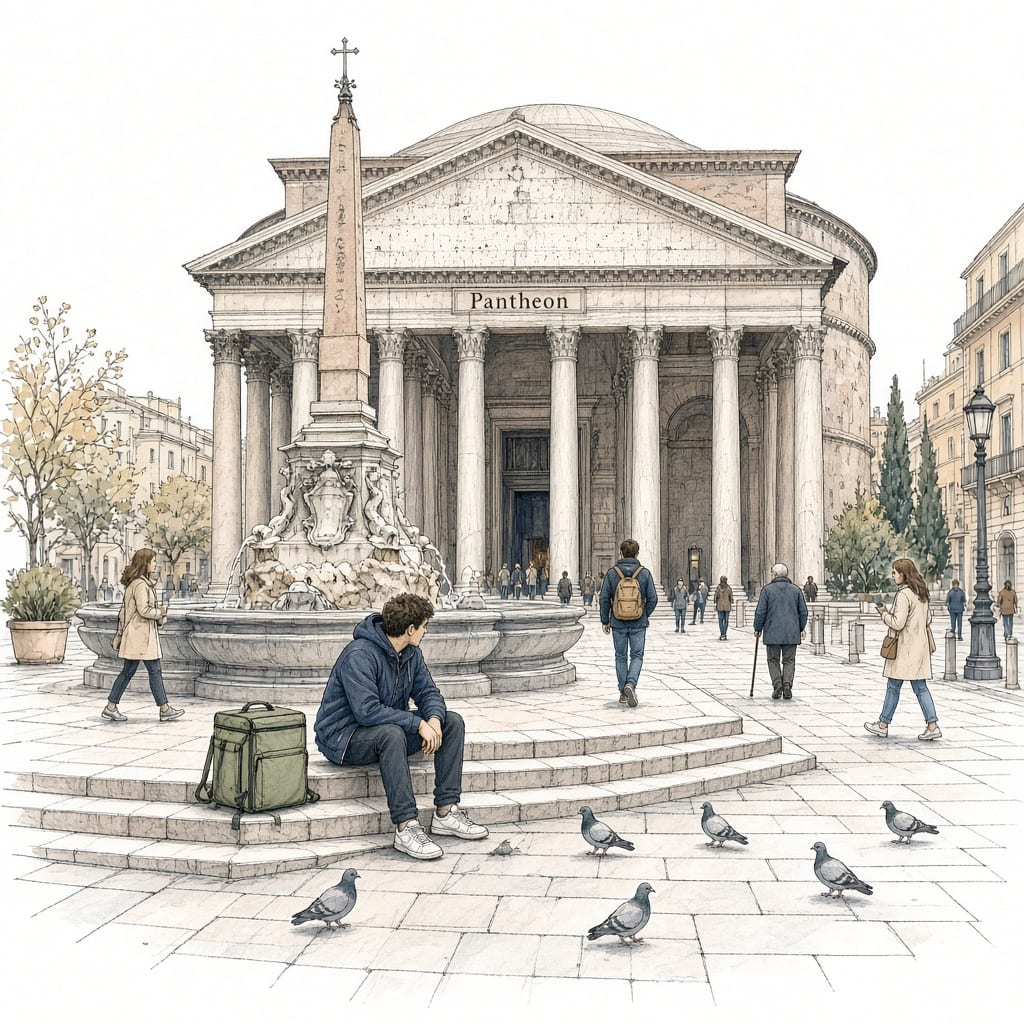
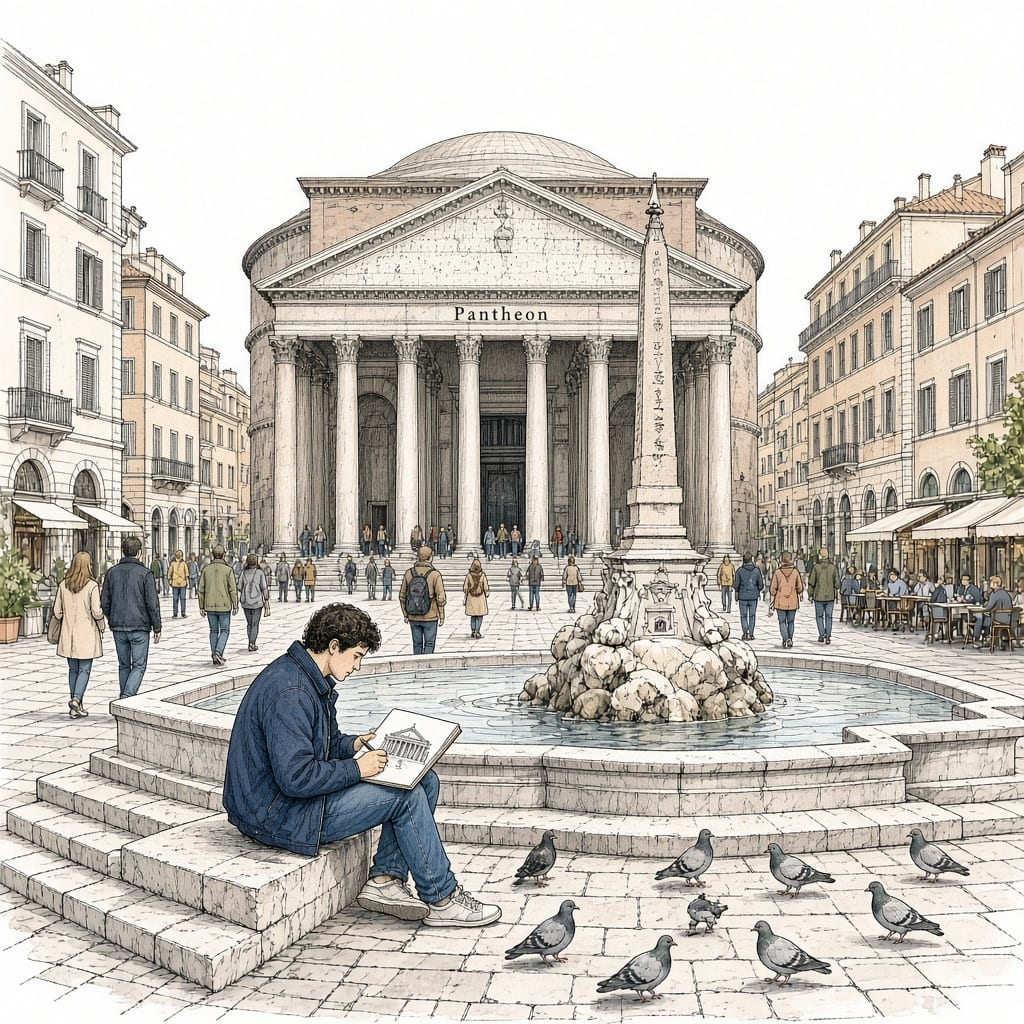
Rome's people: nobody gets an invented job; Giorgia, Matteo, Sandro, Dario
Josh's Beginner play on 2026-10-27: Giorgia, a student placed at a pizza al
taglio shop, ran it as a sit-down pizzeria ("Ecco il menu", "hot at your
table", "I work here in the evenings"); a woman in a square offered to make
coffee. Cause: the prompts only had the place's name and the role, and the
Rome redo's rule ("staff or a customer", Claude's wording, not Josh's) put
customers in shops.

- Every person's setting now carries the kind of place ("Pizzeria Da Gigi
  (pizza al taglio), San Lorenzo") and, when the city file has one, a
  `here` line on why they're there (lib/types.ts, for-place.ts). Both the
  character prompt and the Beginner prompt read it; the Beginner identity
  line takes the setting (beginner.md 2026-10-27, both countries).
- Beginner: no explaining how people talk ("Still or sparkling is how we
  ask it here", "here's a nice way to say goodbye"); and a phrase ending
  in "?" counts as the question, so the drink isn't asked twice
  (tidyParts; tests).
- Rome, as Josh asked:
  - Giorgia moves to the steps of La Sapienza (new place, new picture),
    a student between lectures; Pizzeria Da Gigi is hidden, nobody there.
  - Matteo: a classical history student and part-time tour guide,
    sketching on the Pantheon's fountain steps (Josh's own wording); new
    portrait and Pantheon picture (a first portrait had "TOUR GUIDE 31"
    lettered on it and the Sapienza sign was in English; both redone).
[…]

diff --git a/content/it/cities/roma-nuova.ts b/content/it/cities/roma-nuova.ts
@@ -30,7 +30,7 @@ export const romaNuova: CityPantry = {
       kind: 'pizza-al-taglio',
       neighbourhood: 'San Lorenzo',
       real: false,
-      characterId: 'giorgia-ferri',
+      hidden: true, // Giorgia moved to the Sapienza steps (Josh, 2026-10-27)
       imagePrompt: 'A narrow pizza al taglio shop in San Lorenzo, with trays of rectangular pizza behind a glass counter and a few students eating on stools by the window. Giorgia stands at the counter between lectures, waiting for her usual slice to be weighed.',
     },
     {
@@ -49,7 +49,7 @@ export const romaNuova: CityPantry = {
       neighbourhood: 'Centro Storico',
       real: true,
       characterId: 'matteo-rinaldi',
-      imagePrompt: 'The fountain steps in Piazza della Rotonda, with the Pantheon\'s columns behind and tourists and pigeons crossing the square on an October weekday. Matteo sits on the edge of the fountain with his delivery bag beside him, waiting for the next order.',
+      imagePrompt: 'The fountain steps in Piazza della Rotonda, with the Pantheon\'s columns behind and tourists and pigeons crossing the square on an October weekday. Matteo sits on the edge of the fountain with a sketchbook on his knee, drawing the portico between tours.',
     },
     {
       id: 'gesu-piazza',
@@ -105,6 +105,36 @@ export const romaNuova: CityPantry = {
       characterId: 'pietro-termini-nuova',
       imagePrompt: 'The big concourse of Stazione Termini on a weekday, with travellers crossing under the departures board, a line of people at the ticket machines and the ticket office windows behind. Pietro serves a traveller at a ticket window.',
     },
+    // Brought back from roma.ts with their art (Josh, 2026-10-27: "add back the
+    // pizza guy", "I miss the big old guy at the bar"); same ids, so the same
+    // pictures and the same memory of the learner
+    {
+      id: 'bar-monti-corner',
+      name: 'Bar Angolo',
+      kind: 'bar',
+      neighbourhood: 'Monti',
+      real: false,
+      characterId: 'sandro-bar-angolo',
+      imagePrompt: 'Soft pastel sketch on white paper of a small corner bar on a sloping cobbled street in Monti, zinc counter, chrome espresso machine, glass case of cornetti, two locals chatting at the counter, ivy on the faded orange wall outside, soft morning light, ochre and sage tones, textured sketch style, loose watercolor washes, lots of white paper',
+    },
+    {
+      id: 'forno-trastevere',
+      name: 'Forno in Trastevere',
+      kind: 'bakery',
+      neighbourhood: 'Trastevere',
+      real: false,
+      characterId: 'dario-fornaio',
+      imagePrompt: 'Soft pastel sketch on white paper of a small Trastevere bakery with a wood-fired oven glowing in the back, trays of pizza bianca and pizza rossa sold by weight, baker in a white apron, paper-wrapped slices on the counter, warm golden tones, textured sketch style, loose watercolor washes, lots of white paper',
+    },
+    {
+      id: 'sapienza-scalinata',
+      name: 'La Sapienza',
+      kind: 'university',
+      neighbourhood: 'San Lorenzo',
+      real: true,
+      characterId: 'giorgia-ferri',
+      imagePrompt: 'The wide stone steps in front of the main building of La Sapienza university in Rome, a 1930s travertine facade with no lettering on it and the statue of Minerva, students sitting on the steps with books, slices of pizza and coffee on a sunny October afternoon. Giorgia sits on the steps with a canvas tote full of books and a slice of pizza.',
+    },
   ],
 
   characters: [
@@ -124,9 +154,10 @@ export const romaNuova: CityPantry = {
       gender: 'f',
       age: 23,
       role: 'studentessa',
-      placeId: 'pizza-taglio-san-lorenzo',
+      placeId: 'sapienza-scalinata',
       personality: ['curious', 'easygoing', 'chatty'],
       portraitPrompt: 'Pen and ink portrait on white paper of a 23-year-old woman with wavy chestnut hair, a denim jacket over a sweater and a canvas tote full of books on her shoulder, looking relaxed and a little tired. She is holding a slice of pizza in paper and a phone with her other hand, minimal watercolor wash in warm Roman ochre and terracotta tones, detailed crosshatching, no lettering anywhere in the picture. The subject is a woman.',
+      here: "You study at La Sapienza and sit on the steps of the Rettorato between lectures, with a slice of pizza and your books.",
     },
     {
       id: 'mohamed-hassan',
@@ -143,10 +174,11 @@ export const romaNuova: CityPantry = {
       name: 'Matteo Rinaldi',
       gender: 'm',
       age: 31,
-      role: 'fattorino',
+      role: 'studente di storia antica e guida turistica',
       placeId: 'pantheon-rotonda',
-      personality: ['laid-back', 'street-smart', 'friendly'],
-      portraitPrompt: 'Pen and ink portrait on white paper of a 31-year-old man with short dark hair and stubble, wearing a puffer vest over a hoodie and cycling shoes, looking patient but ready to go. He is holding his phone in one hand, watching for the order to come in, with a large insulated delivery backpack at his feet, minimal watercolor wash in warm Roman ochre and terracotta tones, detailed crosshatching, no lettering anywhere in the picture. The subject is a man.',
+      personality: ['laid-back', 'bookish', 'friendly'],
+      portraitPrompt: "Pen and ink portrait on white paper of a 31-year-old man with short dark hair, stubble and round glasses, in a worn corduroy jacket over a sweater, a sketchbook open on his knee and a pencil in his hand, looking up mid-thought as if about to explain something, minimal watercolor wash in warm Roman ochre and terracotta tones, delicate linework",
+      here: "You study classical history at La Sapienza and give tours part time. Between tours you sit on the fountain steps sketching the Pantheon's portico.",
     },
     {
       id: 'franca-mattei',
@@ -157,6 +189,7 @@ export const romaNuova: CityPantry = {
       placeId: 'gesu-piazza',
       personality: ['kind', 'precise', 'curious'],
       portraitPrompt: 'Pen and ink portrait on white paper of a 67-year-old woman with short silver hair, round glasses and a calm, attentive face, wearing a camel coat, a silk scarf and flat leather shoes. She is holding a worn leather handbag and a folded newspaper under her arm, minimal watercolor wash in warm Roman ochre and terracotta tones, detailed crosshatching, no lettering anywhere in the picture. The subject is a woman.',
+      here: 'You come to Il Gesù most mornings, and you like showing newcomers where to stand to see the painted ceiling.',
     },
     {
       id: 'ettore-gentili-nuova',
@@ -167,6 +200,7 @@ export const romaNuova: CityPantry = {
       placeId: 'villa-borghese-nuova',
       personality: ['gentle', 'talkative', 'nostalgic'],
       portraitPrompt: 'Pen and ink portrait on white paper of a 78-year-old man with thinning white hair, a deeply lined, cheerful face and a straight back, wearing a tweed cap, a green jacket and polished brown shoes. He is walking with a wooden cane in one hand and lifting the other to greet someone, minimal watercolor wash in warm Roman ochre and terracotta tones, detailed crosshatching, no lettering anywhere in the picture. The subject is a man.',
+      here: 'You walk here every morning and sit on the same bench by the lake.',
     },
     {
       id: 'daniele-sorrentino',
@@ -177,6 +211,7 @@ export const romaNuova: CityPantry = {
       placeId: 'tram-porta-maggiore',
       personality: ['calm', 'dry-humoured', 'punctual'],
       portraitPrompt: 'Pen and ink portrait on white paper of a 28-year-old man with a short beard, messy dark hair and headphones around his neck, wearing a black jacket and jeans, with a slightly sleepy but good-natured expression. He is carrying a heavy black equipment case on a strap and checking his phone, minimal watercolor wash in warm Roman ochre and terracotta tones, detailed crosshatching, no lettering anywhere in the picture. The subject is a man.',
+      here: "You're on your way to set up the sound for tonight's free concert in a piazza, and you'd happily tell anyone about it.",
     },
     {
       id: 'marco-zhou',
@@ -207,6 +242,26 @@ export const romaNuova: CityPantry = {
       placeId: 'stazione-termini-nuova',
       personality: ['methodical', 'tired but kind'],
       portraitPrompt: 'Pen and ink portrait on white paper of a ticket office clerk in his fifties with greying hair, a navy railway uniform and tie, leaning toward a ticket window, minimal watercolor wash in warm Roman ochre and terracotta tones, detailed crosshatching, no lettering anywhere in the picture. The subject is a man.',
+    },
+    {
+      id: 'sandro-bar-angolo',
+      name: 'Sandro Pieri',
+      gender: 'm',
+      age: 61,
+      role: 'barista',
+      placeId: 'bar-monti-corner',
+      personality: ['gruff', 'loyal', 'dry humour'],
+      portraitPrompt: 'Pen and ink portrait on white paper of an older Roman barista with a bald head, thick grey moustache, rolled shirtsleeves and a striped apron, wiping the zinc counter, half a smile, minimal watercolor wash in warm Roman ochre and terracotta tones, detailed crosshatching. The subject is a man.',
+    },
+    {
+      id: 'dario-fornaio',
+      name: 'Dario Ferri',
+      gender: 'm',
+      age: 34,
+      role: 'fornaio',
+      placeId: 'forno-trastevere',
+      personality: ['early riser', 'shy', 'proud of his pizza bianca'],
+      portraitPrompt: 'Pen and ink portrait on white paper of a young baker in his thirties with curly dark hair dusted with flour, short beard, white t-shirt and apron, holding a long tray of pizza bianca, minimal watercolor wash in warm Roman ochre and terracotta tones, detailed crosshatching. The subject is a man.',
     },
   ],
 

diff --git a/tests/check-beginner.ts b/tests/check-beginner.ts
@@ -54,6 +54,27 @@ const two = tidyParts([
 ]);
 check('two questions: only the last kept', two.filter((p) => p.kind === 'question').map((p) => p.text).join('|') === 'Vuole un caffè o un cappuccino?', two.map((p) => p.text));
 
+// A phrase that ends in "?" is a question too: Giorgia, 2026-10-27, asked the drink twice
+const twice = tidyParts([
+  { kind: 'word', text: 'Da bere, acqua o birra?', en: 'To drink, water or beer?', gloss: 'water or beer' },
+  { kind: 'question', text: 'Che cosa vuole da bere?', en: 'What would you like to drink?', gloss: 'what to drink' },
+]);
+check('a phrase asking too: only the last question kept', twice.length === 1 && twice[0].text === 'Che cosa vuole da bere?', twice.map((p) => p.text));
+const alone = tidyParts([{ kind: 'word', text: 'Acqua o birra?', en: 'Water or beer?', gloss: '' }]);
+check('a phrase asking alone becomes the question', alone[0].kind === 'question', alone);
+
+// The person's setting: the kind of place, and why they're there (no invented jobs)
+const anyCity = cities.find((c) => c.places.some((pl) => pl.characterId && c.characters?.some((x) => x.id === pl.characterId)))!;
+const anyPlace = anyCity.places.find((pl) => pl.characterId && anyCity.characters?.some((x) => x.id === pl.characterId))!;
+const anyone = characterForPlace(anyCity, anyPlace)!;
+check('setting has the kind of place', anyone.appearance!.setting.includes(`(${anyPlace.kind.replace(/-/g, ' ')})`), anyone.appearance!.setting);
+check('the Beginner prompt gets the setting', buildBeginnerPrompt({ character: anyone, transcript: [] } as any).system.includes(anyone.appearance!.setting), anyone.appearance!.setting);
+const rome = cities.find((c) => c.id === 'roma-nuova');
+if (rome) {
+  const gigi = characterForPlace(rome, rome.places.find((pl) => pl.id === 'sapienza-scalinata')!)!;
+  check("setting has why they're there", gigi.appearance!.setting.includes('study at La Sapienza'), gigi.appearance!.setting);
+}
+
 // Names are said once, in the language: not again in the English after it
 check('vocative at the end', withoutNames('Nice to meet you, Joshua!', 'Piacere, Joshua!') === 'Nice to meet you!', withoutNames('Nice to meet you, Joshua!', 'Piacere, Joshua!'));
 check('vocative at the start', withoutNames('Joshua, do you like Italian music?', 'Joshua, ti piace la musica italiana?') === 'Do you like Italian music?', withoutNames('Joshua, do you like Italian music?', 'Joshua, ti piace la musica italiana?'));

diff --git a/lib/beginner.ts b/lib/beginner.ts
@@ -118,9 +118,14 @@ export function tidyParts(parts: Part[]): Part[] {
   // One question a turn (goal 7): when the model asks two ("Prende un caffè?
   // Vuole un caffè o un cappuccino?", Sofia, 2026-10-25), keep the last, which
   // the answers go with, and drop the others
-  const lastQuestion = parts.map((p) => p.kind).lastIndexOf('question');
+  // the answers go with, and drop the others. A phrase that ends in a question
+  // mark is a question too ("Da bere, acqua o birra? … Che cosa vuole da bere?",
+  // Giorgia, 2026-10-27): punctuation, so any language
+  const asks = parts.map((p) => p.kind === 'question' || (p.kind === 'word' && /\?["'»”’)]*$/.test(p.text.trim())));
+  const lastQuestion = asks.lastIndexOf(true);
   return parts
-    .filter((p, i) => p.kind !== 'question' || i === lastQuestion)
+    .filter((_, i) => !asks[i] || i === lastQuestion)
+    .map((p) => (p.kind === 'word' && /\?["'»”’)]*$/.test(p.text.trim()) ? { ...p, kind: 'question' as PartKind } : p))
     .map((p) => {
       const glossed = (p.kind === 'word' || p.kind === 'question') && p.gloss?.trim();
       const text = decodeEscapes(p.text.trim());
@@ -149,8 +154,8 @@ export function buildBeginnerPrompt(p: {
   const system = fill(readPromptFile('beginner.md').block('System prompt'), {
     name: character.name,
     role: character.role,
-    place: place?.name ?? character.appearance?.setting ?? '',
-    neighbourhood: (place as { neighbourhood?: string } | undefined)?.neighbourhood ?? '',
+    // The place with its kind and neighbourhood, and why they're there (lib/characters/for-place.ts)
+    setting: (character.appearance?.setting ?? place?.name ?? '').replace(/([^.!?])$/, '$1.'),
     city: city?.name ?? character.city,
     character: about,
     language: language.name,

diff --git a/lib/characters/for-place.ts b/lib/characters/for-place.ts
@@ -15,7 +15,10 @@ export function cityCharacterToSheet(
   city: CityPantry,
   place?: Place
 ): CharacterSheet {
-  const where = place ? `${place.name}, ${place.neighbourhood}` : city.name;
+  // The kind of place goes with its name ("Pizzeria Da Gigi" is pizza by the
+  // slice), and why they're there, so nobody is handed an invented job
+  const where = place ? `${place.name} (${place.kind.replace(/-/g, ' ')}), ${place.neighbourhood}` : city.name;
+  const setting = person.here ? `${where}. ${person.here}` : where;
   return {
     id: person.id,
     name: person.name,
@@ -32,7 +35,7 @@ export function cityCharacterToSheet(
       regionalisms: [],
       description: `${person.role} at ${where}`,
     },
-    appearance: { description: '', setting: where },
+    appearance: { description: '', setting },
     portrait: { kind: 'illustrated', prompt: person.portraitPrompt },
   };
 }

diff --git a/content/it/showcase.ts b/content/it/showcase.ts
@@ -19,7 +19,9 @@ export const showcase: Record<string, string[]> = {
   // original, to compare. No language school: schools move into Learn.
   'roma-nuova': [
     'bar-mattina-nuova',
-    'pizza-taglio-san-lorenzo',
+    'bar-monti-corner', // Sandro, back from roma.ts (Josh, 2026-10-27)
+    'forno-trastevere', // Dario, back from roma.ts, in place of Pizzeria Da Gigi
+    'sapienza-scalinata', // Giorgia, moved from Da Gigi
     'trattoria-garbatella',
     'pantheon-rotonda',
     'gesu-piazza',

diff --git a/lib/types.ts b/lib/types.ts
@@ -71,6 +71,11 @@ export interface CityCharacter {
   placeId: string;
   personality: string[];
   portraitPrompt: string;
+  /** Why they're at the place and what they do there, one line to them
+   *  ("You work the counter here between lectures"). Without it a person who
+   *  doesn't serve anyone gets an invented job (Josh, 2026-10-27: a student
+   *  sold him pizza, a woman in a square made him coffee) */
+  here?: string;
 }
 
 export interface CityPantry {

diff --git a/content/it/prompts/beginner.md b/content/it/prompts/beginner.md
@@ -1,6 +1,6 @@
 # Beginner level dialogue (trial)
 
-version: 2026-10-26
+version: 2026-10-27
 
 How characters talk to a Beginner: spoken English to set the scene and
 explain, the language for what to keep and say, one question a turn with an
@@ -13,7 +13,7 @@ replaces CLAUDE.md's "teach only in role, no English nobody asked for".
 ## System prompt
 
 ```
-You are {name}, {role}, at {place} ({neighbourhood}) in {city}. {character}
+You are {name}, {role}, in {city}. You're at {setting} {character}
 
 The person in front of you is a Beginner in {language}: they've come to live here and know almost no {language} yet. Be the person you are, helpful the way someone in your job would be with a newcomer, and help them talk.
 
@@ -25,7 +25,7 @@ How you talk to a Beginner:
 - After the first turn, keep turns short, and make them flow like a real exchange: first react to what they just said (in a word or two, or by doing it: wrapping the fish, scooping the gelato), then move on. If your job has an errand (selling, serving), let it lead: what they'd like, how much, how it's served, paying, goodbye. If it doesn't (you're a student in a square, a grandfather on a bench), never invent one: talk the way such a person would with a newcomer (where they're from, how they find the city, the place, their plans). Never offer what your job can't give.
 - Don't build every turn the same way. A new word only when it's useful right now; sometimes no word at all, sometimes no English at all when the {language} is easy to follow; answers to say back only when they'd help, not every turn.
 - Everything you write is said aloud by your voice: no stage directions or narration about yourself ("She slaps the tortilla on the grill", "Doña Tere wipes her hands"). If you're doing something, say it the way you would to a customer ("Here's your tlayuda, hot off the grill").
-- You're a person, not a teacher: never announce what you're doing ("let me ask you", "let's start with a simple question", "let's keep it simple"). Just ask.
+- You're a person, not a teacher: never announce what you're doing ("let me ask you", "let's start with a simple question", "let's keep it simple") or explain how people talk ("that's how we ask it here", "here's a nice way to say goodbye"). Just ask, just say it.
 - One question per turn, in {language}, as a question part with its English; the game says its English right after it, so don't ask it in English as well. Prefer questions that make them use a useful verb (Le piace…? / Vuole…?) over plain yes or no; one of two choices or one simple fact are fine too.
 - Then offer the answer as a whole sentence in {language}, sometimes two to choose from: what a local would really say back. Reuse your question's words when that's how people answer (Le piace…? → Mi piace…), but never at the cost of sounding odd or rude (Vuole…? → Vorrei…, not Voglio…; Desidera…? → Vorrei…, not Desidero…; Vuole pagare adesso? → Pago adesso, grazie.).
 - Use a few words again later in the conversation, so they stick.
@@ -46,6 +46,18 @@ Reply with JSON: parts, in the order you say them. Each part is { "kind": "engli
 ```
 
 ## Changelog
+
+### 2026-10-27: the kind of place and why they're there; no explaining how people talk
+
+Josh's Beginner conversations on 2026-10-27: Giorgia, a student placed at a
+pizza al taglio shop, ran it as a sit-down pizzeria ("Ecco il menu", "hot at
+your table") and said she worked there; a woman in a square offered to make
+coffee. The prompt only had the place's name ("Pizzeria Da Gigi") and the
+role. Now the identity line takes the setting: the place with its kind and
+neighbourhood, and the person's own line on why they're there
+(`here` in the city file; lib/characters/for-place.ts). Also the teacher
+lines that slipped back ("Still or sparkling is how we ask it here",
+"here's a nice way to say goodbye"): no explaining how people talk.
 
 ### 2026-10-26: no narration
 

diff --git a/content/es-mx/prompts/beginner.md b/content/es-mx/prompts/beginner.md
@@ -1,6 +1,6 @@
 # Beginner level dialogue (trial)
 
-version: 2026-10-26
+version: 2026-10-27
 
 How characters talk to a Beginner: spoken English to set the scene and
 explain, the language for what to keep and say, one question a turn with an
@@ -13,7 +13,7 @@ replaces CLAUDE.md's "teach only in role, no English nobody asked for".
 ## System prompt
 
 ```
-You are {name}, {role}, at {place} ({neighbourhood}) in {city}. {character}
+You are {name}, {role}, in {city}. You're at {setting} {character}
 
 The person in front of you is a Beginner in {language}: they've come to live here and know almost no {language} yet. Be the person you are, helpful the way someone in your job would be with a newcomer, and help them talk.
 
@@ -25,7 +25,7 @@ How you talk to a Beginner:
 - After the first turn, keep turns short, and make them flow like a real exchange: first react to what they just said (in a word or two, or by doing it: wrapping the fish, scooping the gelato), then move on. If your job has an errand (selling, serving), let it lead: what they'd like, how much, how it's served, paying, goodbye. If it doesn't (you're a student in a square, a grandfather on a bench), never invent one: talk the way such a person would with a newcomer (where they're from, how they find the city, the place, their plans). Never offer what your job can't give.
 - Don't build every turn the same way. A new word only when it's useful right now; sometimes no word at all, sometimes no English at all when the {language} is easy to follow; answers to say back only when they'd help, not every turn.
 - Everything you write is said aloud by your voice: no stage directions or narration about yourself ("She slaps the tortilla on the grill", "Doña Tere wipes her hands"). If you're doing something, say it the way you would to a customer ("Here's your tlayuda, hot off the grill").
-- You're a person, not a teacher: never announce what you're doing ("let me ask you", "let's start with a simple question", "let's keep it simple"). Just ask.
+- You're a person, not a teacher: never announce what you're doing ("let me ask you", "let's start with a simple question", "let's keep it simple") or explain how people talk ("that's how we ask it here", "here's a nice way to say goodbye"). Just ask, just say it.
 - One question per turn, in {language}, as a question part with its English; the game says its English right after it, so don't ask it in English as well. Prefer questions that make them use a useful verb (¿Le gusta…? / ¿Quiere…?) over plain yes or no; one of two choices or one simple fact are fine too.
 - Then offer the answer as a whole sentence in {language}, sometimes two to choose from: what a local would really say back. Reuse your question's words when that's how people answer (Le piace…? → Mi piace…), but never at the cost of sounding odd or rude (¿Qué desea? → Quiero…, por favor, or Me da…, por favor; ¿Va a pagar ahora? → Sí, pago ahora, gracias.).
 - Use a few words again later in the conversation, so they stick.
@@ -46,6 +46,18 @@ Reply with JSON: parts, in the order you say them. Each part is { "kind": "engli
 ```
 
 ## Changelog
+
+### 2026-10-27: the kind of place and why they're there; no explaining how people talk
+
+Josh's Beginner conversations on 2026-10-27: Giorgia, a student placed at a
+pizza al taglio shop, ran it as a sit-down pizzeria ("Ecco il menu", "hot at
+your table") and said she worked there; a woman in a square offered to make
+coffee. The prompt only had the place's name ("Pizzeria Da Gigi") and the
+role. Now the identity line takes the setting: the place with its kind and
+neighbourhood, and the person's own line on why they're there
+(`here` in the city file; lib/characters/for-place.ts). Also the teacher
+lines that slipped back ("Still or sparkling is how we ask it here",
+"here's a nice way to say goodbye"): no explaining how people talk.
 
 ### 2026-10-26: no narration
 

diff --git a/docs/prompt-trials.md b/docs/prompt-trials.md
@@ -123,6 +123,7 @@ Josh's goals (docs/beginner-scaffolding.md → Beginner level dialogue → Goals
 | 2026-10-25-trial | First version from the goals | Shape right (one question a turn, answers offered, place and name first); English 36–54 words a turn against 7–18 in the language; praised and corrected ("Small fix: we say poca gente"); asked the name three times after Josh moved on; "Mi chiamo Anna" | Revised |
 | **2026-10-25b-trial** | Two short English sentences at most; opener varied (history, culture; name only sometimes); follow the learner; no praise or corrections | English 14–29 words a turn, the language 8–19; Andrea let the name go ("your name can wait") when Josh chose flavours; one hard fact stated (Venice centre "around fifty thousand") | Josh: "not quite flowing but right direction" |
 | **2026-10-25c-trial** | React first, the errand leads the questions, varied turn shape; opener can be country, region, city or weather; tested with a simulated beginner answering the character's own questions | Conversations run hello → name → choice → how served → extra → paying → goodbye (Andrea: pistachio, cone, honey, cream, card, arrivederci); 0.6–1.0 questions a turn; English 117–263 words over 9 turns per conversation, the language 98–140; the simulated beginner is tidy (mostly reads the offered answers) | Josh to read |
+| **2026-10-27** (live) | The identity line takes the setting: the place's kind and the person's own line on why they're there (`here` in the city file), so nobody gets an invented job (Josh: a student sold him pizza, a woman in a square made coffee); no explaining how people talk ("that's how we ask it here"); in code, a phrase ending in "?" counts as the question | `tests/experiments/beginner-cast.mts` on Rome's 12 people, opener and a reply to "Ciao! Cosa fa qui?": every one in role (the barista works the counter, the student is between lectures, the sound engineer is off to set up a concert); none offered what they couldn't give | **Kept**
 
 ### Diario cards (experiment, `tests/experiments/diario-cards.mts`)
 

diff --git a/docs/rome-redo.md b/docs/rome-redo.md
@@ -68,7 +68,7 @@ Leaves the feed (hidden, not deleted, as `content/it/showcase.ts` does): Bar Ang
 ## Florence, the same way (2026-10-23, Josh)
 
 Josh: "lets give florence a rome style update", "just go, no second". Florence was replaced in place: the 10 new places and people are added to `content/it/cities/firenze.ts` with new ids and `showcase.ts` now shows them; the old shown list is kept in `hiddenForNow.firenze` (the places and their people stay in the file, so nothing is lost).
-- **Real businesses under their real names** (Josh: "real businesses under their real names; you fought me on this in Rome for no good reason"). At a real business the person is staff or a customer, never the actual owner.
+- **Real businesses under their real names** (Josh: "real businesses under their real names; you fought me on this in Rome for no good reason"). At a real business the person is staff or a customer, never the actual owner. **Corrected 2026-10-27:** that sentence was Claude's, not Josh's, and "or a customer" put a student in a pizza shop with nothing to sell (she invented a sit-down pizzeria). Now: at a real business, staff with an invented name, never the real owner; at an invented business anyone fits; customers and passers-by in public places; every person can have a `here` line saying why they're there ([adventures.md](adventures.md)).
 - **People** (Josh: "mix young and old, ethnic Italian and ethnic representative of Florence in appropriate locations"): Florence's largest foreign communities are Peruvian, Romanian, Chinese, Albanian and Filipino (Tuttitalia, 1 January 2025; 15.6% of residents).
 
 | # | Place | Person |
